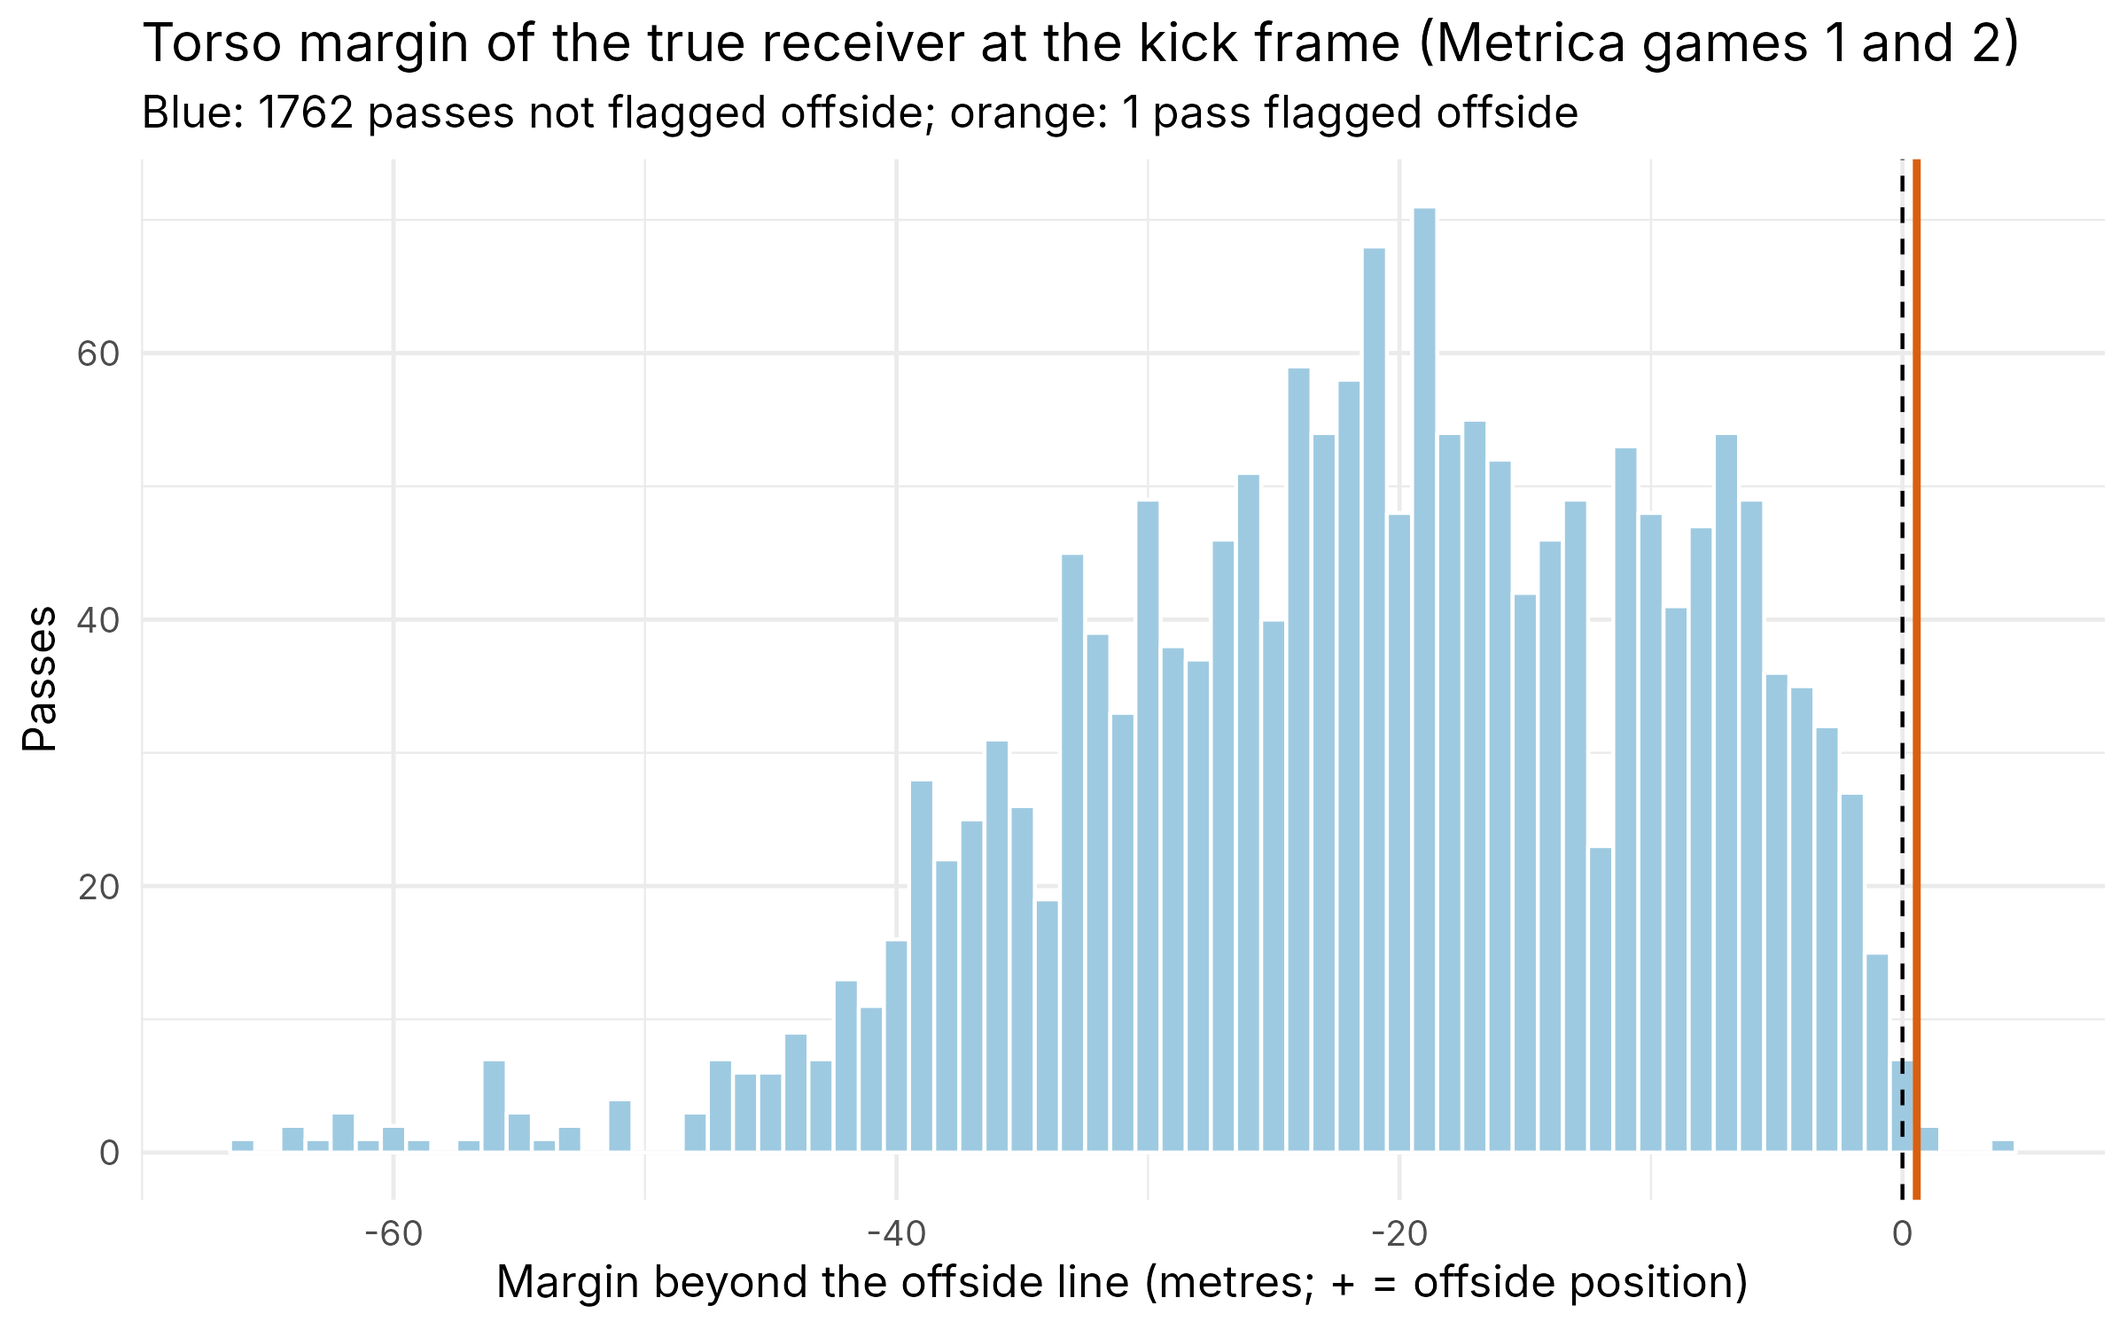
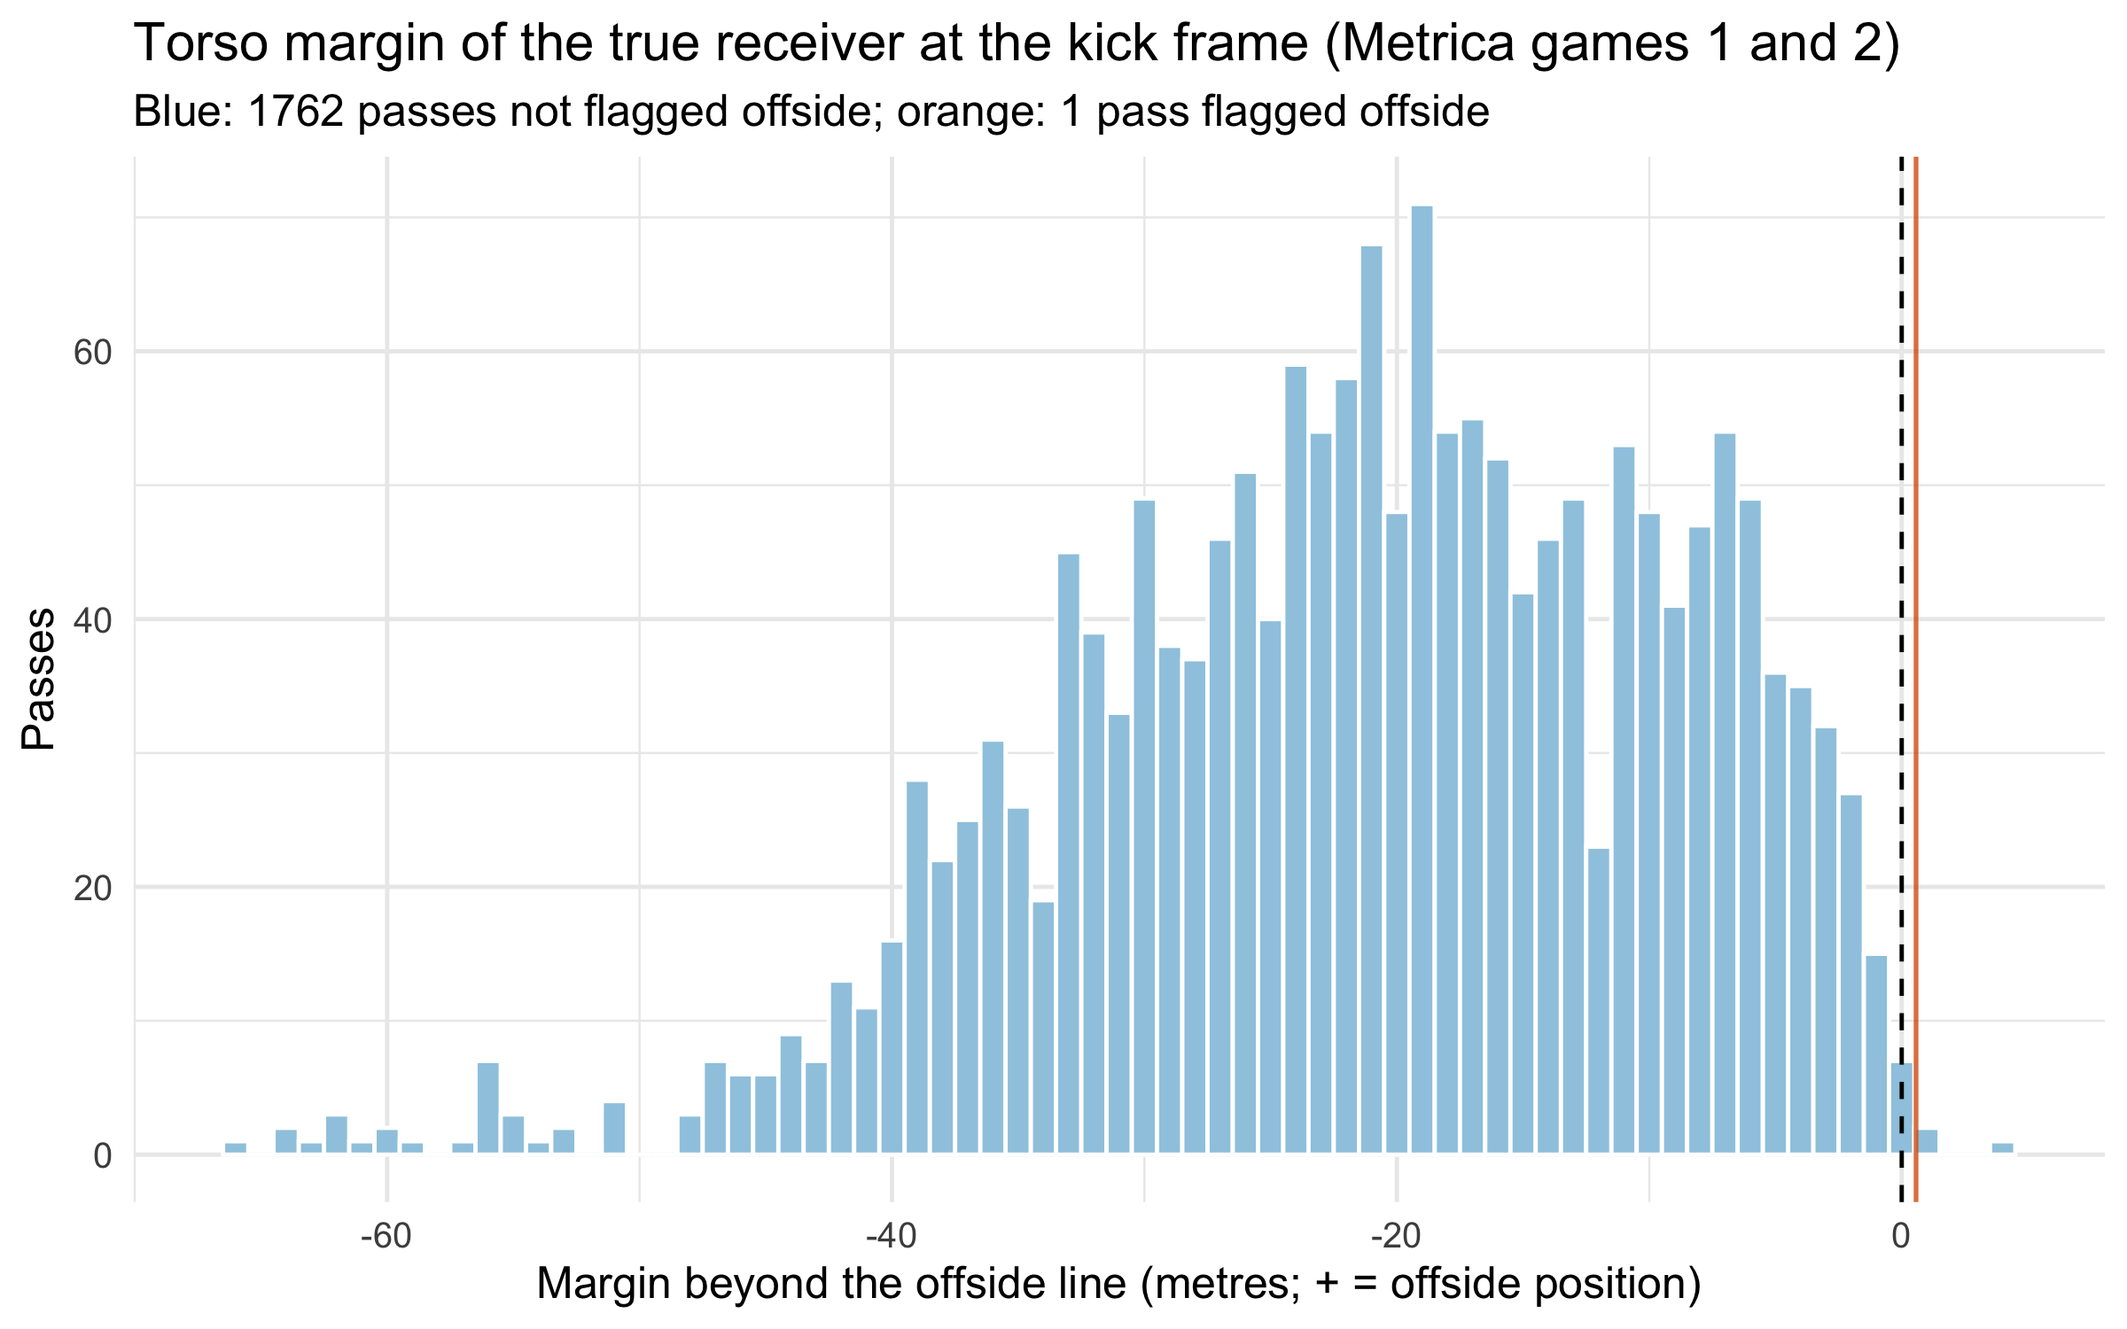
Run the Law 11 engine on 20 SkillCorner matches; regenerate the tracking report
analysis/offside_tracking.md is now written by the script for both
providers. Metrica reproduces the merged numbers exactly (1,763 passes,
0.2% false positives with the true receiver, 97.1% receiver hit rate).
SkillCorner, 16,055 passes with a targeted receiver across the 20
A-League matches: 1.2% false positives with the targeted receiver, 27.7%
with the furthest-forward rule, 97.7% receiver hit rate for the
nearest-to-end-point heuristic; one frame of kick-time error is 100 ms at
10 fps and moves the margin by a median of 0.11 m (0.30 m at the 90th
percentile), more than 5 cm in 73.8% of passes. The provider's 62 offside
flags form 52 stoppages and label both teams' passes around each one, so
agreement with them is reported per stoppage (targeted receiver beyond
the line in 11.5%, furthest-forward team-mate in 34.6%) with that caveat.
SkillCorner's own defensive line matches the engine's second-last
opponent within 1 cm on 53.0% of passes and within 50 cm on 94.1%; event
positions are bit-identical to the tracking in 10 of the 20 matches.
Both margin histograms are regenerated.

diff --git a/analysis/offside_tracking.md b/analysis/offside_tracking.md
@@ -1,8 +1,12 @@
-# Law 11 engine on continuous tracking (Metrica Sports sample games 1 and 2)
+# Law 11 engine on continuous tracking
 
-Generated by `R/11_offside_tracking.R` on 2026-10-14. Passes evaluated: 1763 (1 flagged offside by the data provider). Positions at the kick frame, 25 Hz, metres.
+The pure Law 11 engine (`R/09_offside_engine.R`) evaluated at the kick frame of every pass in two tracking datasets of different kinds: 25 Hz optical tracking (Metrica Sports) and 10 fps broadcast tracking (SkillCorner). Every number below is computed by `R/11_offside_tracking.R`; nothing is typed by hand. Positive margin = the receiver is beyond the offside line (an offside position, not necessarily an offence).
 
-## False-positive rate on passes that were NOT flagged offside
+## Metrica Sports sample games 1 and 2 (25 Hz optical tracking)
+
+Generated by `R/11_offside_tracking.R` on 2026-10-18. Passes evaluated: 1763 (1 flagged offside by the data provider). Positions at the kick frame, 25 Hz, metres.
+
+### False-positive rate on passes that were NOT flagged offside
 
 | Receiver rule | Share with margin > 0 | 95% CI | n |
 |---|---|---|---|
@@ -10,21 +14,15 @@ Generated by `R/11_offside_tracking.R` on 2026-10-14. Passes evaluated: 1763 (1 
 | nearest_end | 0.002 | [0.001, 0.005] | 1762 |
 | furthest_forward | 0.148 | [0.132, 0.165] | 1762 |
 
-The nearest-to-end-point rule picked the true receiver in 97.1% of passes.
+The nearest-to-end-point rule picked the true receiver in 97.1% of the 1763 passes with a known end point.
 
-## The flagged offsides (case studies)
+### Kick-frame ambiguity (what one frame of timing error does to the margin)
 
-| Game | Period | Kick frame | Passer | Receiver | Margin (m) | Second-last defender x | Ball x | P(offside) MC | Call |
-|---|---|---|---|---|---|---|---|---|---|
-| Sample_Game_1 | 1 | 29468 | Player19 | Player18 | 0.57 | 89.67 | 77.77 | 0.91 | refer |
-
-## Kick-frame ambiguity (what one frame of timing error does to the margin)
-
-- Shifting the kick frame by 1 frame (40 ms) moves the margin by a median of 0.04 m (90th percentile 0.12 m); by 2 frames: median 0.08 m, p90 0.23 m.
+- Shifting the kick frame by 1 frame (40 ms) moves the margin by a median of 0.04 m (90th percentile 0.12 m); by 2 frames (80 ms): median 0.08 m, p90 0.23 m.
 - The sign of the margin flips in 0.0% of passes with a 1-frame shift and 0.0% with a 2-frame shift.
 - A 1-frame shift moves the margin by more than 5 cm (the reported manual-line tolerance of the official systems, unverified) in 42.8% of passes and by more than 10 cm in 14.4%; a 2-frame shift exceeds 5 cm in 68.1%. This is why the official systems need a 500 Hz ball sensor or 100 fps cameras to fix the kick point.
 
-## Three-way Monte-Carlo call (sigma = 0.3 m, sigma_t = 0.02 s) vs. provider flag
+### Three-way Monte-Carlo call (sigma = 0.3 m, sigma_t = 0.02 s) vs. provider flag
 
 | Engine call | Not flagged | Flagged offside |
 |---|---|---|
@@ -32,12 +30,166 @@ The nearest-to-end-point rule picked the true receiver in 97.1% of passes.
 | onside | 1752 | 0 |
 | refer | 7 | 1 |
 
+### The flagged offsides (case studies)
+
+| Game | Period | Kick frame | Passer | Receiver | Margin (m) | Second-last defender x | Ball x | P(offside) MC | Call |
+|---|---|---|---|---|---|---|---|---|---|
+| Sample_Game_1 | 1 | 29468 | Player19 | Player18 | 0.57 | 89.67 | 77.77 | 0.91 | refer |
+
 ![Margins](../figures/offside_tracking_margins.png)
 
-## Caveats
+### Caveats
 
 - Only 1 provider-flagged offside(s) follow a PASS event in these two games (a second flagged offside followed a ball recovery, not a pass, and is excluded): sensitivity cannot be estimated here; the false-positive rate can.
 - A positive margin on an unflagged pass is not necessarily an error: an offside-positioned receiver who is not interfering is not flagged, and some passes are intercepted before any offence.
 - Tracking centroids are torso-level; limb-level offsets are not measurable without pose data.
 - Attacking direction is inferred from kick-off positions; ball position comes from tracking when available, else the passer's location.
+
+## SkillCorner A-League 2024/25 (10 fps broadcast tracking, 20 matches)
+
+Generated by `R/11_offside_tracking.R` (reader `R/12_read_skillcorner.R`) on 2026-10-18. Passes evaluated: 16055 of 16069 pass-ending possessions with a targeted receiver (62 flagged `offside` by SkillCorner's pass_outcome). Positions at the kick frame, 10 fps, metres, centre origin; the "true receiver" is SkillCorner's targeted player. Matches: 1874553, 1886347, 1899585, 1925299, 1927964, 1953632, 1959846, 1986691, 1996435, 1996436, 2006229, 2006363, 2007448, 2007721, 2010085, 2011166, 2013725, 2015213, 2016236, 2017461.
+
+### Per match
+
+| Match | Pitch length (m) | Passes with a target | Evaluated | Flagged offside | FP rate, targeted receiver | Second-last defender detected | Passer event position within 0.5 m of tracking | ... within 1 cm |
+|---|---|---|---|---|---|---|---|---|
+| 1874553 | 105 | 837 | 835 | 2 | 0.011 | 0.44 | 1.000 | 1.000 |
+| 1886347 | 104 | 852 | 852 | 2 | 0.006 | 0.43 | 0.945 | 0.014 |
+| 1899585 | 104 | 740 | 739 | 4 | 0.015 | 0.47 | 0.855 | 0.022 |
+| 1925299 | 105 | 912 | 912 | 5 | 0.007 | 0.42 | 0.907 | 0.007 |
+| 1927964 | 105 | 996 | 996 | 2 | 0.005 | 0.48 | 1.000 | 1.000 |
+| 1953632 | 105 | 865 | 859 | 4 | 0.008 | 0.53 | 0.975 | 0.012 |
+| 1959846 | 106 | 815 | 814 | 2 | 0.015 | 0.47 | 1.000 | 1.000 |
+| 1986691 | 105 | 766 | 766 | 4 | 0.010 | 0.49 | 1.000 | 1.000 |
+| 1996435 | 105 | 878 | 877 | 4 | 0.014 | 0.62 | 0.961 | 0.013 |
+| 1996436 | 104 | 660 | 659 | 2 | 0.003 | 0.52 | 1.000 | 1.000 |
+| 2006229 | 105 | 861 | 861 | 1 | 0.010 | 0.59 | 0.959 | 0.008 |
+| 2006363 | 106 | 844 | 844 | 1 | 0.014 | 0.39 | 1.000 | 1.000 |
+| 2007448 | 105 | 752 | 751 | 3 | 0.016 | 0.37 | 1.000 | 1.000 |
+| 2007721 | 104 | 847 | 847 | 2 | 0.017 | 0.53 | 1.000 | 1.000 |
+| 2010085 | 106 | 835 | 835 | 2 | 0.007 | 0.37 | 1.000 | 1.000 |
+| 2011166 | 105 | 630 | 630 | 5 | 0.021 | 0.39 | 0.940 | 0.019 |
+| 2013725 | 106 | 766 | 766 | 8 | 0.024 | 0.40 | 0.919 | 0.008 |
+| 2015213 | 106 | 736 | 735 | 3 | 0.010 | 0.38 | 0.937 | 0.015 |
+| 2016236 | 106 | 823 | 823 | 3 | 0.024 | 0.30 | 1.000 | 1.000 |
+| 2017461 | 105 | 654 | 654 | 3 | 0.017 | 0.38 | 0.875 | 0.005 |
+
+The last two columns check the reader: the passer's position in the dynamic events, after undoing SkillCorner's attack-direction normalisation, is compared with the tracking at the event's kick frame. In 10 of 20 matches the two are bit-identical; in the others the events come from a different processing pass over the same positions, with a median offset of a few centimetres and a tail beyond 0.5 m (the share within 0.5 m is the column before last), and the agreement peaks at the kick frame rather than at a neighbouring one.
+
+### False-positive rate on passes that were NOT flagged offside
+
+| Receiver rule | Share with margin > 0 | 95% CI | n |
+|---|---|---|---|
+| true | 0.012 | [0.011, 0.014] | 15993 |
+| nearest_end | 0.008 | [0.006, 0.009] | 13442 |
+| furthest_forward | 0.277 | [0.270, 0.284] | 15993 |
+
+The nearest-to-end-point rule picked the true receiver in 97.7% of the 13442 passes with a known end point.
+
+### Kick-frame ambiguity (what one frame of timing error does to the margin)
+
+- Shifting the kick frame by 1 frame (100 ms) moves the margin by a median of 0.11 m (90th percentile 0.30 m); by 2 frames (200 ms): median 0.21 m, p90 0.60 m.
+- The sign of the margin flips in 0.2% of passes with a 1-frame shift and 0.3% with a 2-frame shift.
+- A 1-frame shift moves the margin by more than 5 cm (the reported manual-line tolerance of the official systems, unverified) in 73.8% of passes and by more than 10 cm in 52.4%; a 2-frame shift exceeds 5 cm in 86.2%. This is why the official systems need a 500 Hz ball sensor or 100 fps cameras to fix the kick point.
+
+### Three-way Monte-Carlo call (sigma = 0.3 m, sigma_t = 0.05 s) vs. provider flag
+
+| Engine call | Not flagged | Flagged offside |
+|---|---|---|
+| offside | 83 | 3 |
+| onside | 15606 | 48 |
+| refer | 304 | 11 |
+
+### Sensitivity on the passes SkillCorner flagged offside
+
+| Receiver rule | Share with margin > 0 | 95% CI | n |
+|---|---|---|---|
+| true | 0.097 | [0.045, 0.195] | 62 |
+| furthest_forward | 0.306 | [0.206, 0.430] | 62 |
+
+With the targeted receiver, 6 of 62 flagged passes have a positive margin; 28 of the 62 flagged passes have the second-last defender detected by the camera, and 1 of those 28 are positive.
+
+The flag is not a frame-precise label of the offending pass: the 62 flagged passes form 52 stoppages (runs of flagged passes less than 10 s apart, whichever team passed), 31% of flagged passes belong to a run of two or more, and 100% of those runs contain passes by both teams, i.e. the attacking team's pass and the defending team's restart are both labelled `offside`. Judging each stoppage once: the first flagged pass has its targeted receiver beyond the line in 11.5% of stoppages; at least one flagged pass of the stoppage has the targeted receiver beyond the line in 11.5% and the furthest-forward team-mate beyond it in 34.6%.
+
+### Detected vs. extrapolated second-last defender (unflagged passes)
+
+| Stratum | n | FP rate, true receiver | FP rate, furthest forward | Median players detected in frame |
+|---|---|---|---|---|
+| second-last defender detected | 7226 | 0.014 | 0.205 | 17 |
+| second-last defender extrapolated | 8767 | 0.012 | 0.336 | 13 |
+
+### Reader cross-check against SkillCorner's own defensive line
+
+- SkillCorner publishes `last_defensive_line_x_end` on every pass. After the reader's conversion to the attacking frame it equals the engine's second-last opponent to within 1 cm on 53.0% of 16054 passes and to within 50 cm on 94.1% (the centimetre-level differences are the same event-vs-tracking processing offset seen in the per-match table). Of the 942 passes further apart than 50 cm, 3.4% have a goalkeeper who is not the deepest opponent or who is the second-last one, where SkillCorner's outfield line and the Law 11 second-last opponent legitimately differ; the margins here use the Law 11 definition.
+
+### Flagged offsides with a negative margin for the targeted receiver (case list)
+
+| Match | Period | Kick frame | Passer id | Targeted id | Margin, targeted (m) | Margin, furthest forward (m) | Second-last defender detected | Players detected | Call |
+|---|---|---|---|---|---|---|---|---|---|
+| 1874553 | 2 | 30027 | 51686 | 42513 | -12.29 | -10.92 | no | 17 | onside |
+| 1886347 | 1 | 89 | 735578 | 966120 | -2.20 | -2.20 | yes | 20 | onside |
+| 1886347 | 2 | 30388 | 966120 | 795505 | -0.01 | -0.01 | yes | 19 | refer |
+| 1899585 | 1 | 11994 | 799092 | 27003 | -3.65 | -3.65 | no | 15 | onside |
+| 1899585 | 2 | 30889 | 42510 | 23909 | -0.54 | -0.54 | no | 10 | refer |
+| 1899585 | 2 | 41019 | 23909 | 26969 | -14.29 | -7.95 | yes | 15 | onside |
+| 1899585 | 2 | 52829 | 6799 | 159938 | -5.36 | -5.36 | yes | 15 | onside |
+| 1925299 | 1 | 567 | 11897 | 966112 | -5.49 | -5.49 | yes | 15 | onside |
+| 1925299 | 1 | 11688 | 560989 | 966112 | -9.53 | -1.40 | no | 15 | onside |
+| 1925299 | 1 | 11703 | 965697 | 560986 | -4.88 | -0.67 | no | 17 | onside |
+| 1925299 | 1 | 12809 | 560985 | 560987 | -11.04 | 0.79 | no | 8 | onside |
+| 1925299 | 1 | 22416 | 560987 | 966114 | -5.57 | -4.06 | yes | 12 | onside |
+| 1927964 | 1 | 7489 | 27003 | 26969 | -0.71 | -0.71 | yes | 18 | onside |
+| 1927964 | 2 | 38001 | 13542 | 795526 | -2.85 | -2.85 | yes | 15 | onside |
+| 1953632 | 1 | 12324 | 771861 | 51681 | -10.85 | 1.71 | yes | 18 | onside |
+| 1953632 | 1 | 17644 | 51051 | 51681 | -0.75 | 1.16 | yes | 17 | refer |
+| 1953632 | 2 | 37350 | 50992 | 771856 | -1.88 | 1.95 | no | 12 | onside |
+| 1953632 | 2 | 52046 | 923862 | 795515 | -1.44 | -1.44 | no | 10 | onside |
+| 1959846 | 1 | 25947 | 11885 | 51714 | -1.52 | -1.52 | yes | 20 | onside |
+| 1959846 | 1 | 26011 | 795520 | 957737 | -42.76 | 2.59 | no | 8 | onside |
+| 1986691 | 1 | 26131 | 51664 | 795526 | -5.05 | -5.05 | no | 15 | onside |
+| 1986691 | 2 | 42618 | 582974 | 50951 | -4.12 | -4.12 | yes | 16 | onside |
+| 1986691 | 2 | 44861 | 795523 | 809826 | -14.44 | -1.66 | no | 13 | onside |
+| 1986691 | 2 | 44893 | 43829 | 50951 | -8.03 | -6.41 | yes | 16 | onside |
+| 1996435 | 2 | 36674 | 51000 | 998256 | -29.81 | -7.78 | yes | 18 | onside |
+| 1996435 | 2 | 48527 | 26766 | 42513 | -3.92 | 2.40 | no | 16 | onside |
+| 1996435 | 2 | 48593 | 28293 | 51000 | -11.02 | -5.27 | yes | 19 | onside |
+| 1996435 | 2 | 55175 | 133854 | 28293 | -24.83 | -21.49 | yes | 16 | onside |
+| 1996436 | 2 | 54207 | 51717 | 51044 | -36.01 | -4.79 | no | 12 | onside |
+| 2006229 | 1 | 355 | 3443 | 50980 | -3.55 | -1.20 | no | 16 | onside |
+| 2006363 | 2 | 36055 | 7698 | 50979 | -0.11 | 0.79 | no | 6 | refer |
+| 2007448 | 2 | 33178 | 560901 | 37087 | -4.83 | -4.83 | no | 16 | onside |
+| 2007448 | 2 | 33200 | 458606 | 12185 | -22.21 | 0.78 | no | 9 | onside |
+| 2007448 | 2 | 49724 | 560983 | 800913 | -3.97 | -3.97 | no | 16 | onside |
+| 2007721 | 1 | 24625 | 10549 | 51683 | -0.28 | 1.11 | yes | 20 | refer |
+| 2007721 | 2 | 52200 | 23930 | 966114 | -6.74 | -0.92 | no | 17 | onside |
+| 2010085 | 2 | 53894 | 967295 | 966114 | -0.86 | 3.16 | no | 15 | onside |
+| 2011166 | 1 | 14428 | 7698 | 29075 | -0.22 | -0.22 | no | 6 | refer |
+| 2011166 | 1 | 25372 | 51017 | 23909 | -0.35 | -0.35 | yes | 13 | refer |
+| 2011166 | 2 | 47835 | 698141 | 972687 | -2.29 | -1.07 | yes | 13 | onside |
+| 2011166 | 2 | 55658 | 51017 | 972687 | -6.91 | -6.43 | yes | 14 | onside |
+| 2013725 | 1 | 4501 | 23883 | 26844 | -11.82 | 5.96 | no | 12 | onside |
+| 2013725 | 2 | 54007 | 51644 | 133854 | -4.64 | -4.64 | no | 15 | onside |
+| 2013725 | 2 | 54039 | 957737 | 795529 | -4.12 | 2.64 | no | 17 | onside |
+| 2013725 | 2 | 60626 | 795544 | 133854 | -1.45 | -1.45 | yes | 19 | onside |
+| 2013725 | 2 | 60642 | 957737 | 818284 | -9.52 | -6.81 | yes | 20 | onside |
+| 2013725 | 2 | 60658 | 795544 | 133854 | -1.78 | -1.78 | yes | 20 | onside |
+| 2013725 | 2 | 67698 | 818284 | 818554 | -2.18 | -2.18 | yes | 9 | onside |
+| 2015213 | 1 | 2274 | 33697 | 163972 | -2.23 | -2.23 | yes | 20 | onside |
+| 2015213 | 2 | 41871 | 795527 | 23922 | -20.87 | -5.56 | no | 17 | onside |
+| 2015213 | 2 | 57597 | 43829 | 133501 | -13.04 | -1.19 | yes | 14 | onside |
+| 2016236 | 1 | 17244 | 795527 | 795529 | -6.76 | -1.01 | yes | 13 | onside |
+| 2016236 | 2 | 68431 | 969677 | 50963 | -0.17 | -0.17 | no | 9 | refer |
+| 2017461 | 1 | 19625 | 133498 | 624628 | -1.08 | -1.08 | no | 17 | onside |
+| 2017461 | 1 | 30164 | 159688 | 29075 | -7.74 | -7.74 | no | 17 | onside |
+| 2017461 | 1 | 30179 | 4322 | 133501 | -5.79 | 0.09 | no | 12 | onside |
+
+![Margins](../figures/offside_tracking_margins_skillcorner.png)
+
+### Caveats
+
+- Broadcast tracking: players off camera are extrapolated by the provider, and SkillCorner states that about 97% of player identities are correct. An extrapolated second-last defender fixes the offside line from a guess, which is why the detection strata are reported separately.
+- One frame is 100 ms at 10 fps, two and a half times the 40 ms of the 25 Hz Metrica data, so the kick-frame ambiguity figures above are not comparable across providers without that factor in mind; the Monte Carlo uses sigma_t = half a frame for both.
+- SkillCorner's pass_outcome `offside` is the provider's label for the pass, and the "true receiver" is the provider's targeted player, not the player the referee flagged. The label marks the passes of both teams around the stoppage (see the sensitivity section), so sensitivity against it is a lower bound at best; a flagged pass whose targeted player is onside may also mean another team-mate was the offside player (furthest-forward rule, case list).
+- The positional noise sigma = 0.3 m is the same nominal value used for the optical data; SkillCorner publishes no accuracy figure for broadcast tracking, so it is not a calibrated error.
+- Attacking direction comes from match.json's home_team_side per period and is checked against each event's attacking_side; the ball position comes from tracking when available, else the passer's location.
 
